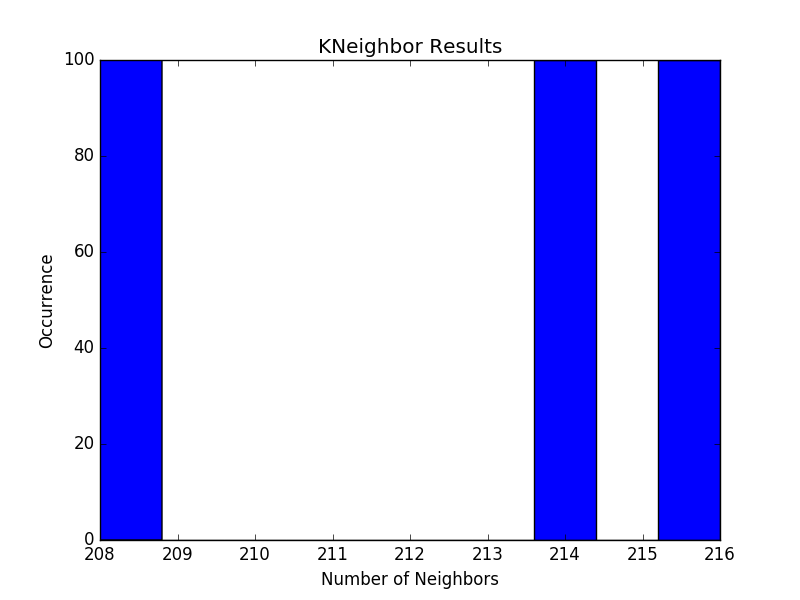
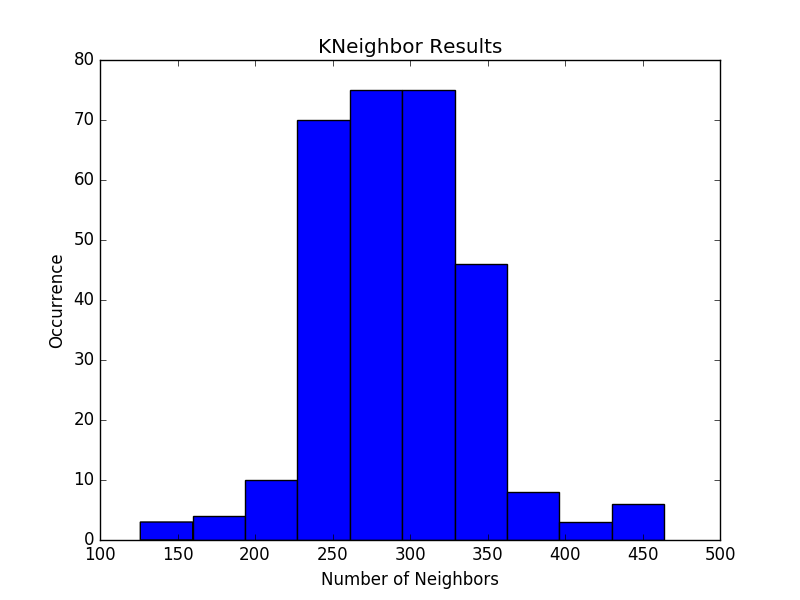
Add files via upload

diff --git a/Stecher-04/Homework4.py b/Stecher-04/Homework4.py
@@ -8,15 +8,15 @@ from sklearn.model_selection import KFold
 import time
 
 
-# read digits data & split it into X (training input) and y (target output)
-X, y, ytrue = hw4genData.genDataSet(1000)
-
-X = X.reshape((len(X), 1))
-
-bestk=[] #Holds every k-neighbors value, we will sort by score later to get the best 3 first
+bestk=[]
 kc=0
-bestklist=[] #Holds the best 3 k-neighbors from each repetition of the experiment for problem 2
-for i in range(0, 100): #Performs the experiment 100 times for problem 2
+bestklist=[]
+for i in range(0, 100):
+  
+  #Generate the data points and shape them to fit the algorithm
+  X, y, ytrue = hw4genData.genDataSet(1000)
+  X = X.reshape((len(X), 1))
+
   for n_neighbors in range(1,900,2):
     kf = KFold(n_splits=10)
     kscore=[]
@@ -40,21 +40,18 @@ for i in range(0, 100): #Performs the experiment 100 times for problem 2
     #print bestk[kc]
     kc+=1
 
-  idx = sorted(range(len(bestk)), key=bestk.__getitem__) #Sort the k-neighbors values
+  idx = sorted(range(len(bestk)), key=bestk.__getitem__)
 #  print(idx[-1]*2)
 #  print(idx[-2]*2)
 #  print(idx[-3]*2)
-
-  #Add the best 3 values to our overall list for problem 2
   bestklist.append(idx[-1]*2)
   bestklist.append(idx[-2]*2)
   bestklist.append(idx[-3]*2)
-  bestk[:] = [] #Clear bestk so we can run the experiment again on a clean array
+  bestk[:] = []
+  idx[:] = []
   
-print kscore[0] #Print the Eout
-print bestklist #Print the list of best k-neighbors values from each experiment
-
-#Plot a histogram of each 
+print kscore[0]
+print bestklist
 plt.hist(bestklist)
 plt.title("KNeighbor Results")
 plt.xlabel("Number of Neighbors")
